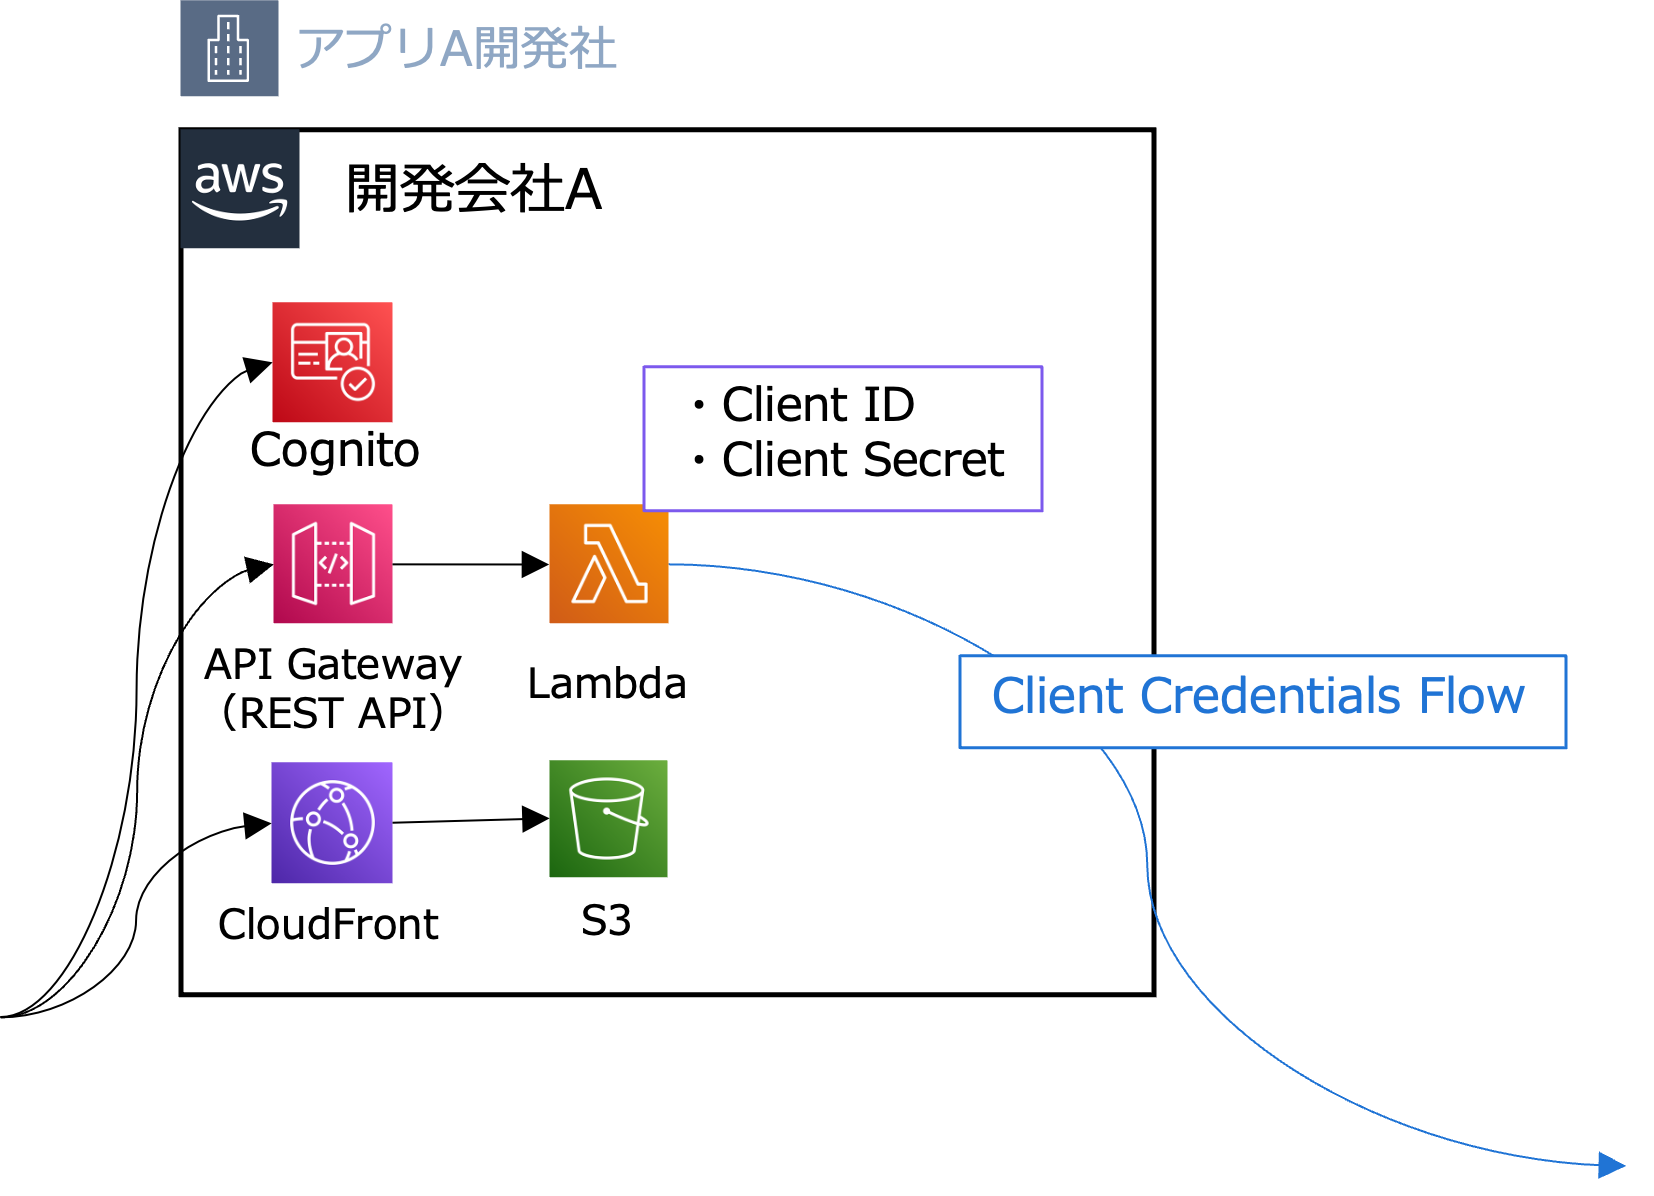
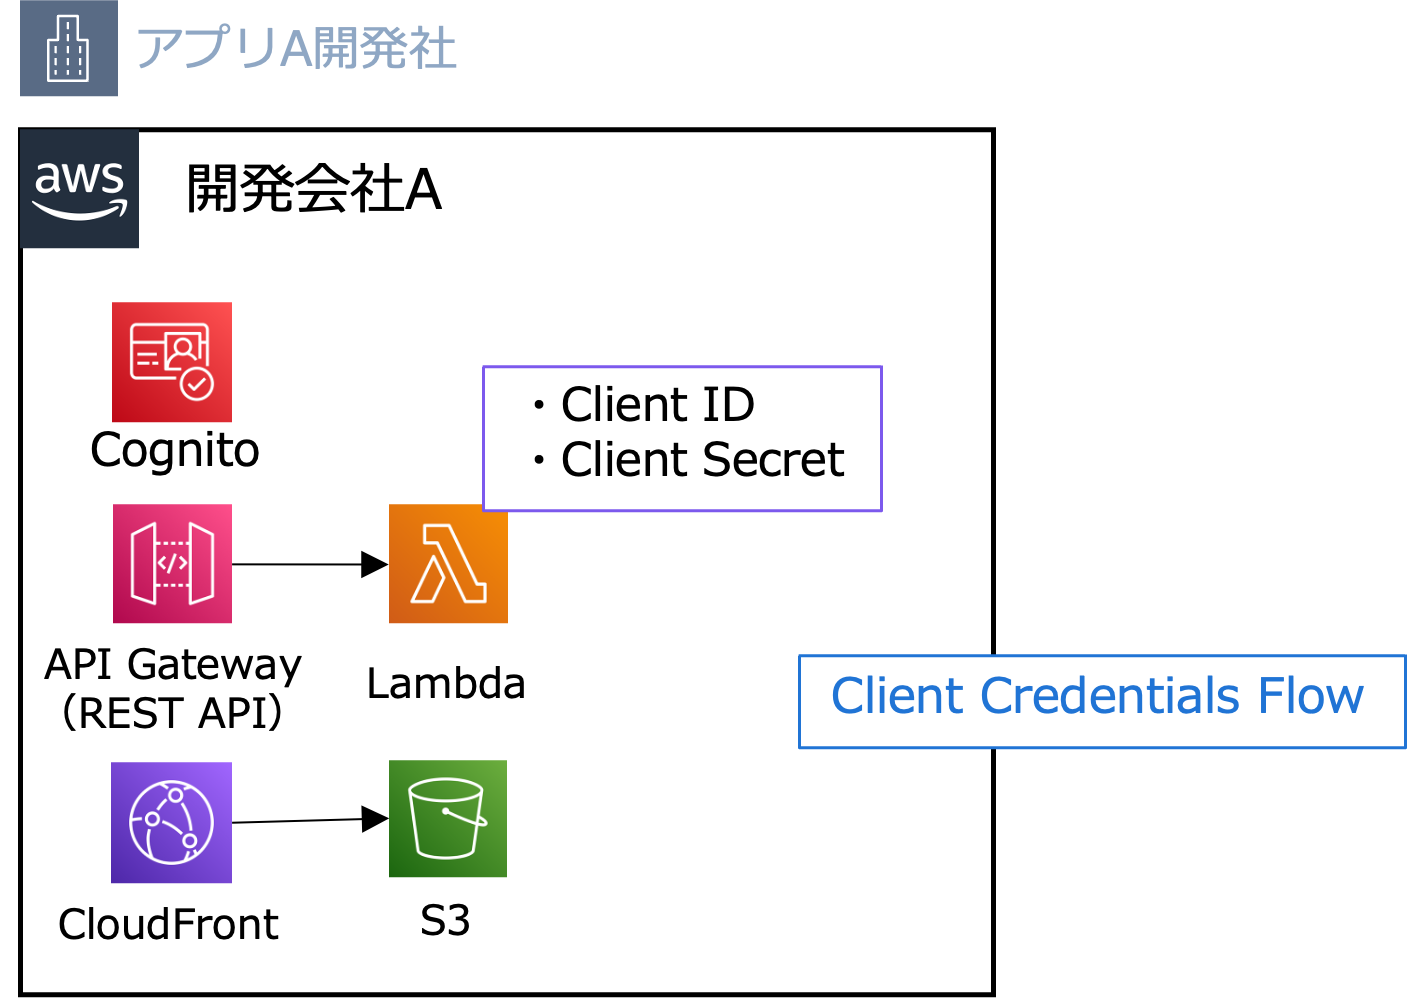
client README 修正

Changed region(s): [[0.0, 0.0, 1.0, 1.0], [0.9474, 0.962, 0.978, 0.993], [0.7946, 0.8999, 0.8252, 0.9309]]

diff --git a/client/README.md b/client/README.md
@@ -7,10 +7,10 @@
 
 ## 全体のアーキテクチャ
 
-このプロジェクトで作成するアーキテクチャの全体図です。
-![architecture](images/architecture.png)
+<!-- プロジェクトで作成するアーキテクチャの全体図です。
+![architecture](images/architecture.png) -->
 
-clientプロジェクトではアーキテクチャ全体図のうち以下の図の部分をデプロイします。
+このプロジェクトでは以下のアーキテクチャ図のようにリソースをデプロイします。
 ![client](images/client.png)
 
 ## デプロイ手順
